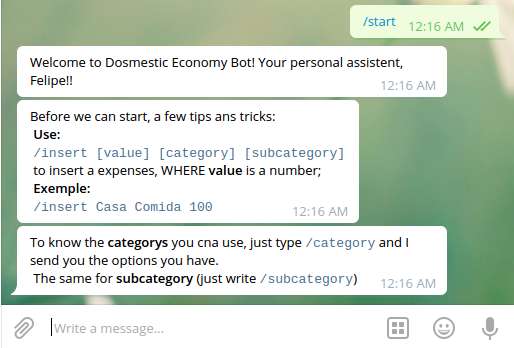
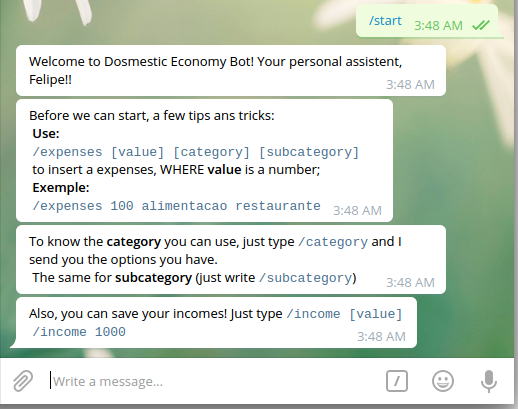
small changes

diff --git a/economybot.py b/economybot.py
@@ -73,31 +73,29 @@ def handle_updates(updates):
             chat = update["message"]["chat"]["id"]
             
             if text == "/start": 
-                #send_action(chat)
                 send_message("Welcome to Dosmestic Economy Bot! Your personal assistent, {}!!".format(user), chat) #confirmar se vai funcionar
-                #send_action(chat)
                 users = db.get_users()
                 if user not in users:
                     db.insertuser(user, chat)
-                send_message("Before we can start, a few tips ans tricks: \n *Use:* \n `/insert [value] [category] [subcategory]` \n to insert a expenses, WHERE *value* is a number; \n *Exemple:* \n `/insert 100 alimentacao restaurante`", chat)
+                send_message("Before we can start, a few tips ans tricks: \n *Use:* \n `/expenses [value] [category] [subcategory]` \n to insert a expenses, WHERE *value* is a number; \n *Exemple:* \n `/expenses 100 alimentacao restaurante`", chat)
                 send_action(chat)
                 send_message("To know the *category* you can use, just type `/category` and I send you the options you have. \n The same for *subcategory* (just write `/subcategory`)", chat)
+                send_action(chat)
+                send_message("Also, you can save your incomes! Just type `/income [value]` \n `/income 1000`", chat)
                 
             if text.startswith("/expenses"):
                 action, value, category, subcategory = text.split(" ")
-                send_message("Organizing the data!", chat)
                 db.insertExpenses(user, category, subcategory, int(value), date.date.today())
-                send_message("select Well done!\n {} inserted as expenses".format(value), chat)
+                send_message("Ok, I'm done!\n {} inserted as expenses".format(value), chat)
 
             if text.startswith("/income"):
                 action, value = text.split(" ")
                 send_message("Saving income!!", chat)
                 db.insertIncome(user, int(value), date.date.today())
-                send_message("select Well done!\n {} inserted as income!".format(value), chat)
+                send_message("Well done!\n {} inserted as income!".format(value), chat)
                 
             if text == "/category":
                 cats = db.get_category()
-                #cats = [[cats] for category in cats]
                 send_message("Your options for **category** are:\n\n{}".format('\n'.join(cats)), chat)
             
             if text.startswith("/subcategory"):

diff --git a/README.md b/README.md
@@ -20,6 +20,11 @@ pip install requests
 `/start` will greeting the user, check if user is already registered in users table. If not, it will be registered;  
 ![start](img/start.png)  
 `/category` will show all categories already registered in the category table;  
-`/subcategory` will do the same for subcategory table;  
-
+![getting category](img/getcategory.png)  
+`/subcategory [category]` will show the subcategories related to a especific `category`;  
+![getting sub category](img/getsubcat.png)  
+`/income [value]` will save the value assed as a income in the database
+![saving income](img/income.png)  
+`/expenses [value] [category] [subcategory]` will save the `value` with `category` and `subcategory` assigned in the database;
+![expenses](img/expenses.png)  
 **NOTE:** The database is note relational yet. I need to work on that too. All data are saved on general table
